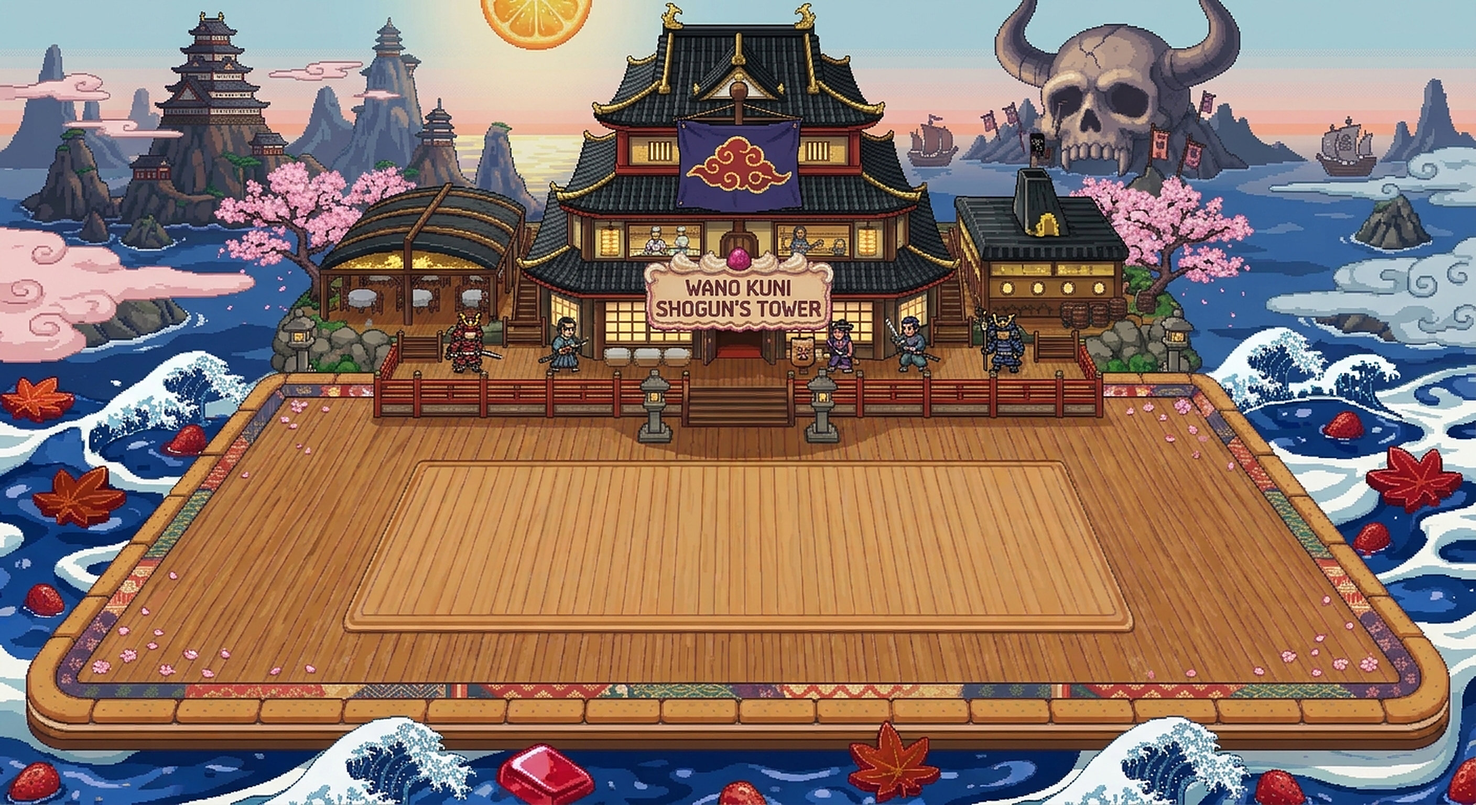
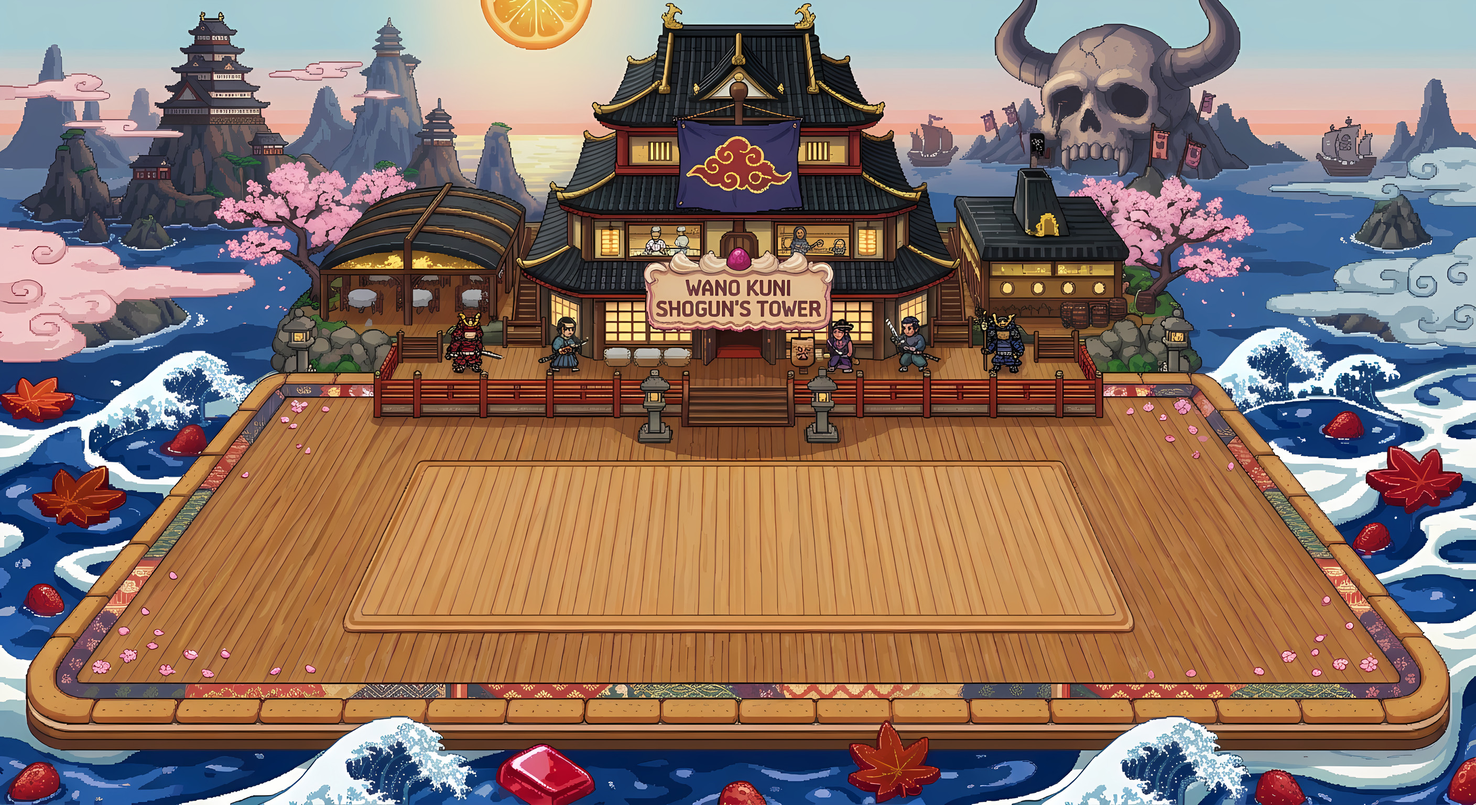
Wano reescalado x2 con IA (Real-ESRGAN anime_6B), como los otros mapas; CACHE_VER v2
Claude-Session: https://claude.ai/code/session_01HBg7BgMPbjvnk4EsjPymw3

diff --git a/sw.js b/sw.js
@@ -3,7 +3,7 @@
 // - HTML, JS, CSS y manifest: red primero y caché si no hay conexión, para que siempre llegue la última versión.
 // - La música (.mp3) no pasa por aquí: el navegador la pide por rangos y la cachea él mismo.
 // Sube CACHE_VER si cambias un asset sin cambiar su nombre y quieres forzar que se descargue de nuevo.
-const CACHE_VER = 'opsurvivor-v1';
+const CACHE_VER = 'opsurvivor-v2';
 
 self.addEventListener('install', e => { self.skipWaiting(); });
 self.addEventListener('activate', e => {
